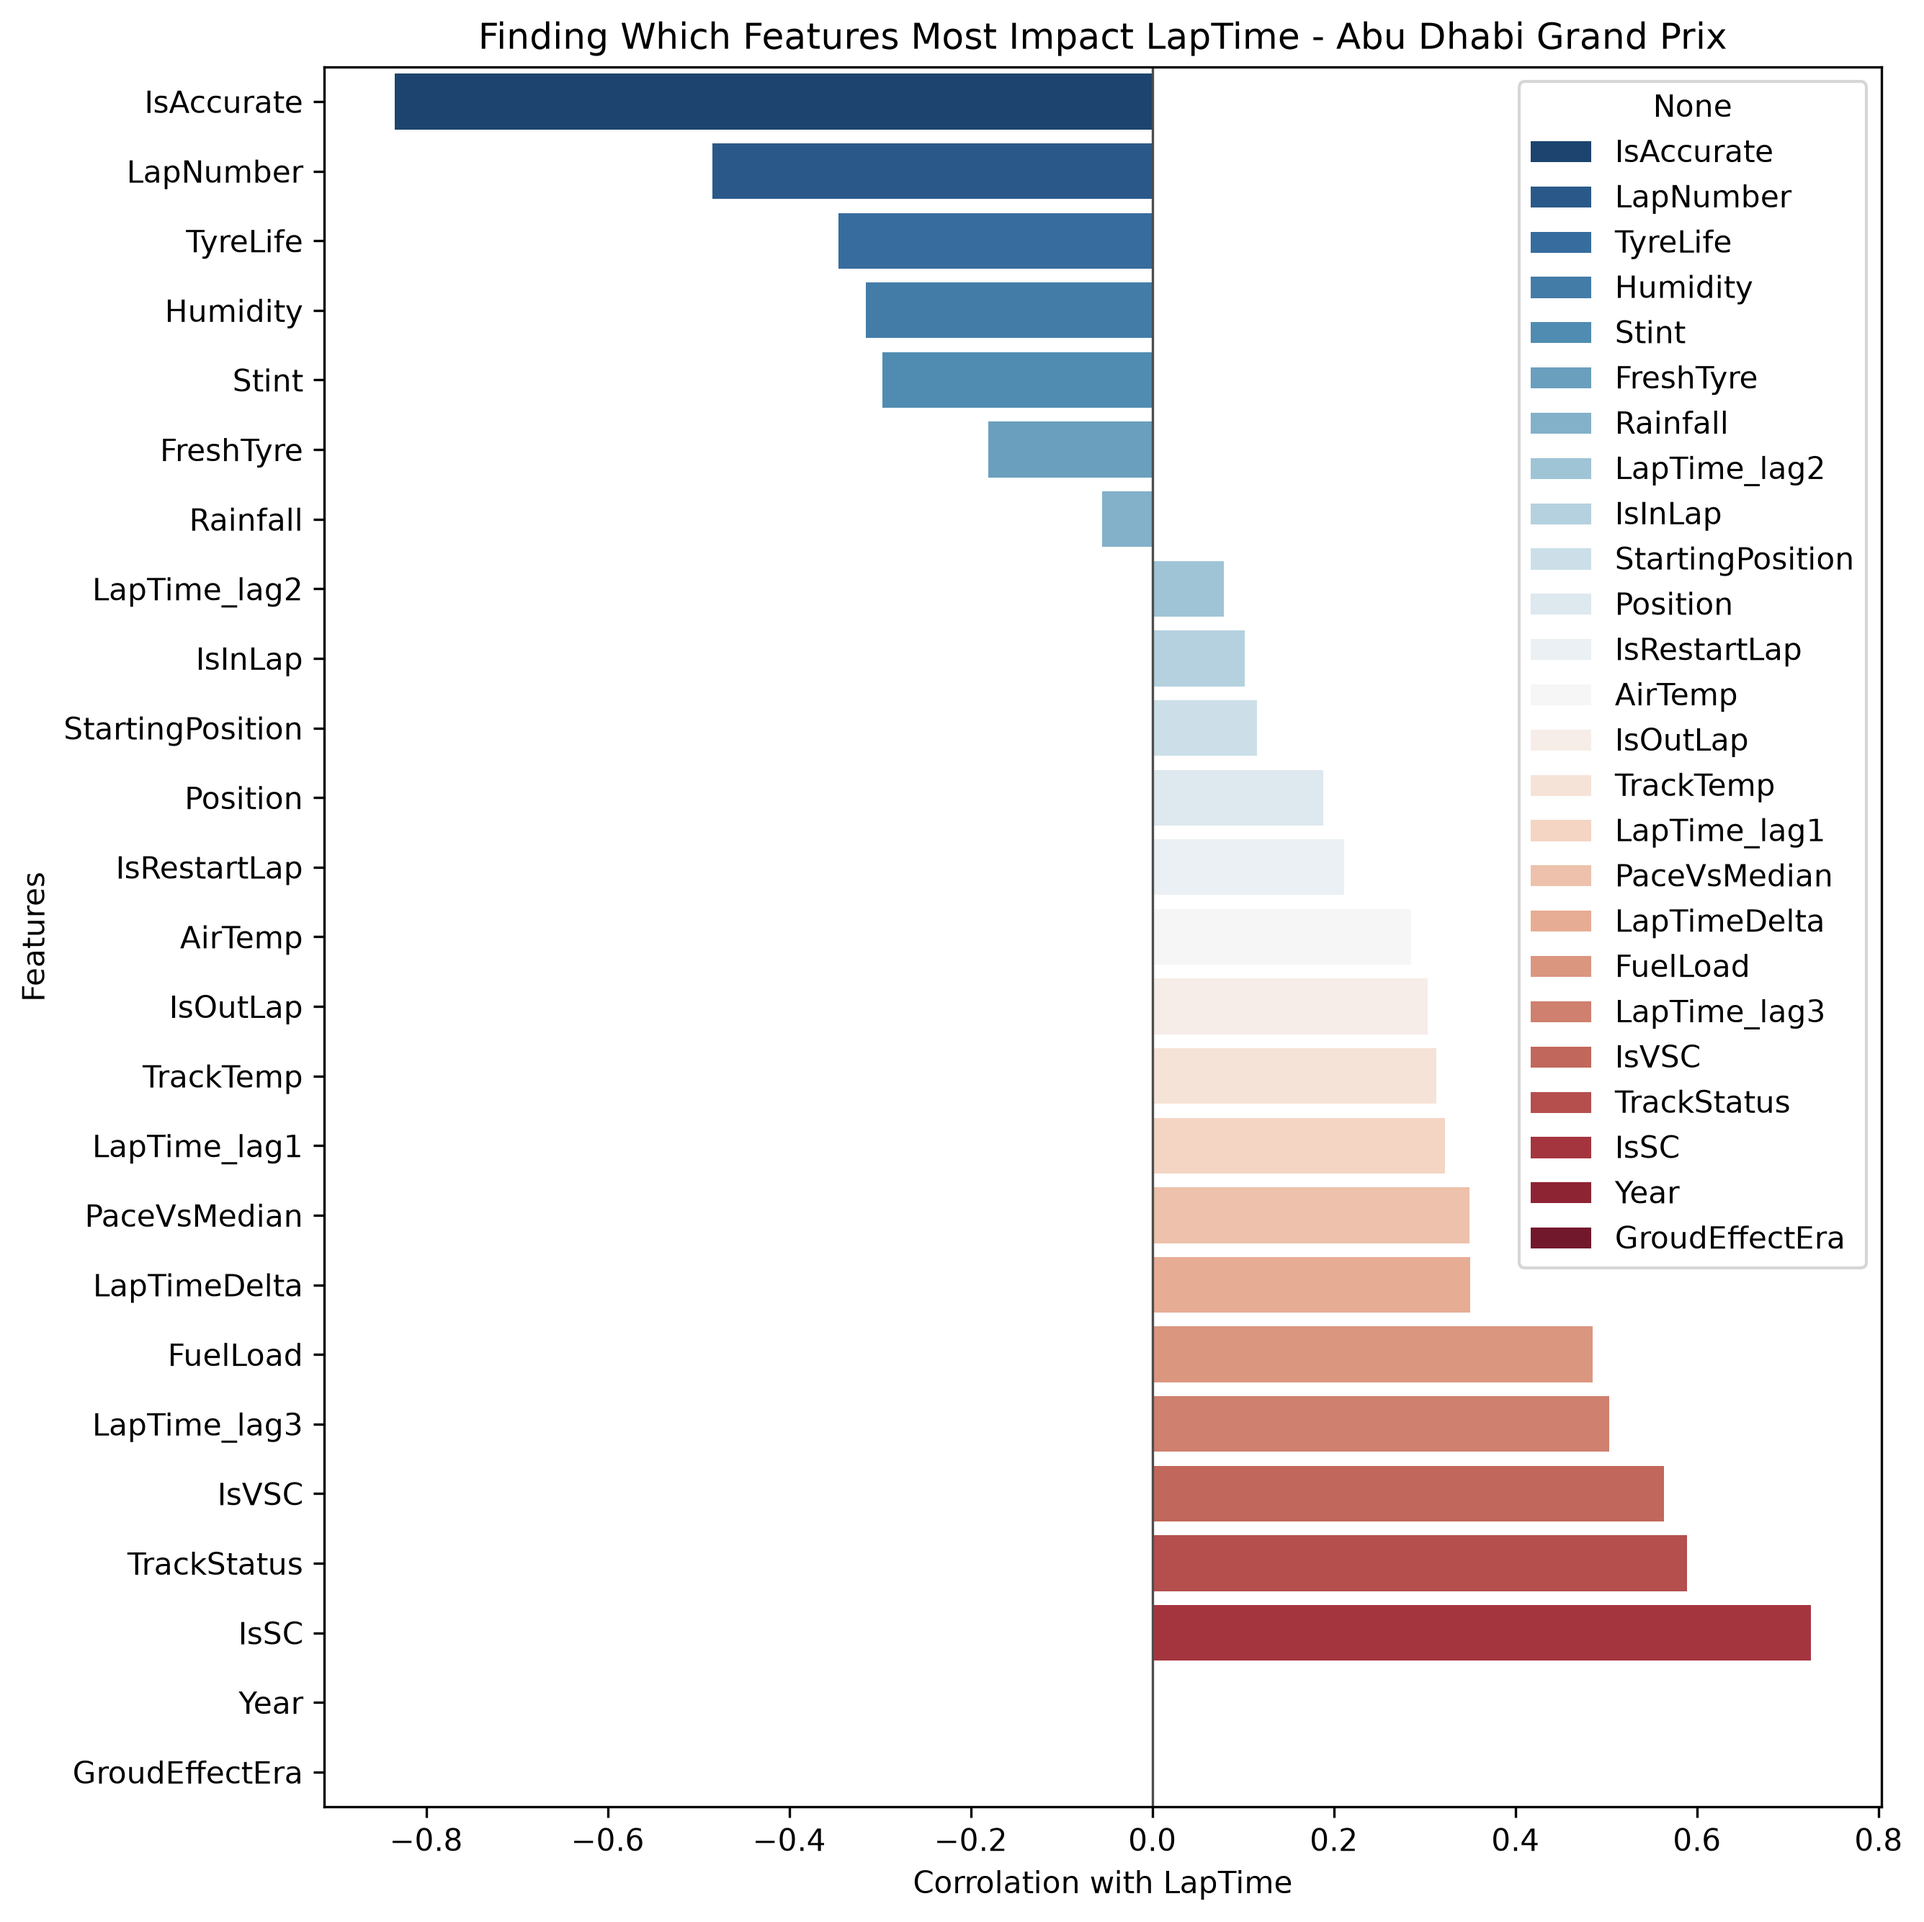
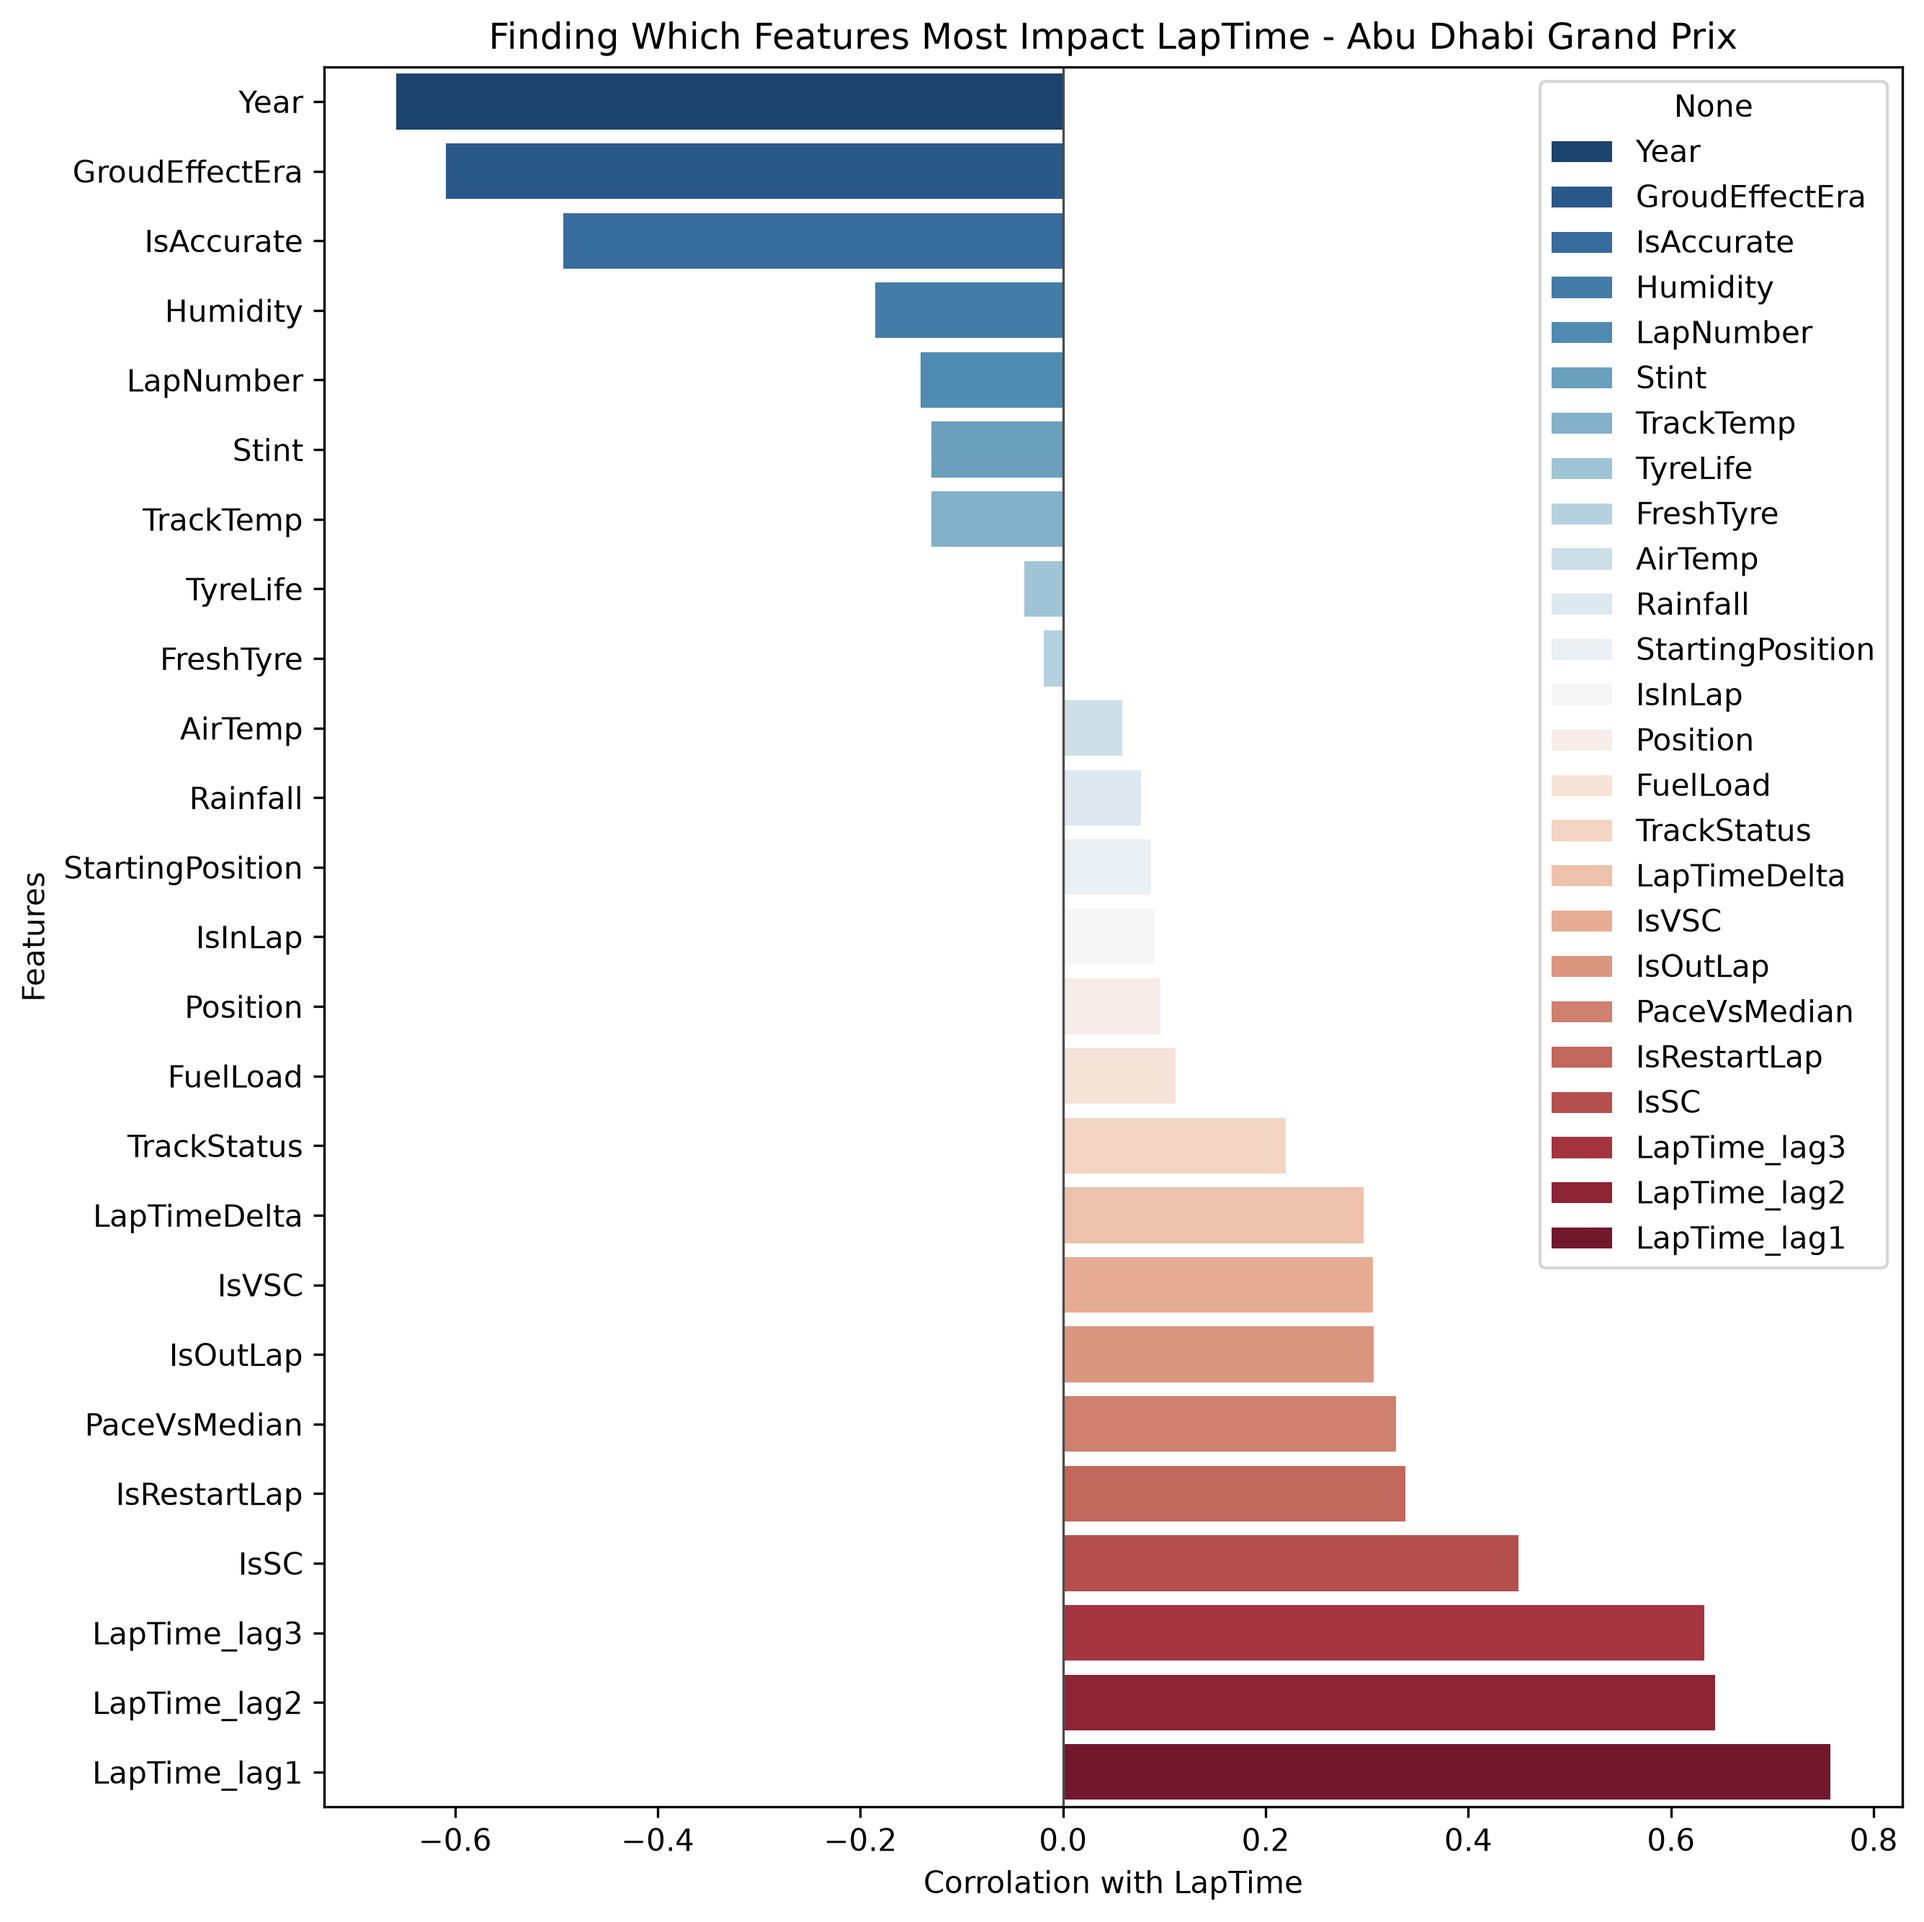
fixed tyres & rebuild database

diff --git a/F1-Project/buildDataset.py b/F1-Project/buildDataset.py
@@ -48,6 +48,7 @@ def get_driver_laps(year, driver, circuit, session_type='R'):
     driver_laps['IsVSC'] = status.str.contains('6',regex=False) #Virtual Safetty car
 
     driver_laps['Year'] = year
+    driver_laps['Circuit'] = circuit
     driver_laps['LapTime'] = driver_laps['LapTime'].dt.total_seconds()
     res = session.results.set_index('Abbreviation')
     driver_laps['StartingPosition'] = driver_laps['Driver'].map(res['GridPosition']) #mapping each driver with their starting position (which was decided before the race)
@@ -66,7 +67,7 @@ def add_features(df):
     for k in (1,2,3):
         df[f'LapTime_lag{k}'] = g['LapTime'].shift(k)
 
-    # field-relative pace: subtracts out fuel burn weather and SC
+    # field-relative pace: how well is th driver doing on lap x compared to everyone else?
     field_median = df.groupby(['Year','LapNumber'])['LapTime'].transform('median')
     df['PaceVsMedian'] = df['LapTime'] - field_median
 
@@ -109,7 +110,7 @@ def build_dataset(circuit='Melbourne', driver='', session_type='R', years=range(
 
     data_frame = pd.concat(frames, ignore_index=True)
     data_frame = data_frame.dropna(subset = ['LapNumber', 'LapTime', 'TyreLife', 'TrackTemp', 'Compound'])
-    data_frame['Compound'] = data_frame['Compound'].replace('SUPERSOFT','SOFT')
+    data_frame['Compound'] = data_frame['Compound'].replace(['ULTRASOFT','HYPERSOFT','SUPERSOFT'],'SOFT')
     data_frame = add_features(data_frame)
     
     if name is not None:

diff --git a/F1-Project/plot.py b/F1-Project/plot.py
@@ -11,7 +11,7 @@ FEATURES = ['Driver','Team','LapNumber','LapTime','Position','Stint','TyreLife',
             'StartingPosition','LapTimeDelta','LapTime_lag1','LapTime_lag2','LapTime_lag3','PaceVsMedian',
             'FuelLoad','GroudEffectEra','IsRestartLap']
 
-COMPOUND_COLOURS = {'SOFT':'green', 'MEDIUM':'yellow', 'INTERMEDIATE': 'blue', 'HARD' : 'red'}
+COMPOUND_COLOURS = {'SOFT':'red', 'MEDIUM':'yellow', 'INTERMEDIATE': 'blue', 'WET': 'blue','HARD' : 'grey'}
 
 # <--------------------------- SCATTER --------------------------->
 def scatter(file):
@@ -43,7 +43,7 @@ def iqr(file):
 
 def corr_with_laptime(filename = 'all_Spanish Grand Prix', show=False, path = 'all'):
     file = pd.read_csv(os.path.join(path,filename) + '.csv')
-    d = file.select_dtypes(include = ['number','bool'])
+    d = file[FEATURES].select_dtypes(include = ['number','bool'])
     c = d.corr()['LapTime'].drop('LapTime').sort_values() #pearson's r
 
     plt.figure(num = 'Feature Selection', figsize=(9,9))
